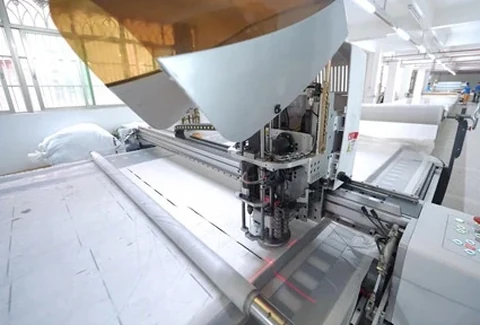
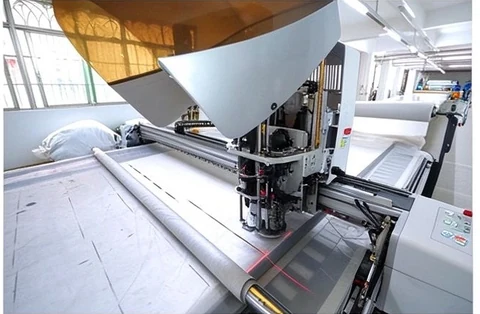
feat(images): upgrade factory photos to HD cells from the 2364px collage
Re-cropped all six factory slots from D:\\高清图.jpeg (2364x1773) instead of
the old 1600x1200 collage. Native widths went from 425-562px to 661-844px,
so the homepage strip now runs at 240px tall with a worst 2x density of 1.11
(was 1.39 at 200px) - taller AND sharper.

Also:
- tidied the building exterior crop: dropped the flat sky and the foreground
  wall so the building fills ~80% of the frame, and gave it a gentle contrast/
  colour lift so it does not read as washed out next to the interiors.
- dropped the bottom-right cell's outer white border, which carried a
  '豆包AI生成' watermark; cropping to the real photo edge (y=462) removes it
  without losing any image content. That cell is not used on the site.
- added @640/@768 variants so the ~397px about-grid tiles pick a sharper
  source on 2x screens instead of falling back to 480.
- 640 added to Picture.astro CANDIDATE_WIDTHS so those variants are emitted.
- no variant exceeds its native width, so nothing is upscaled.

diff --git a/src/styles/global.css b/src/styles/global.css
@@ -310,7 +310,7 @@
 }
 @media (min-width: 768px) {
   .factory-strip { grid-template-columns: repeat(6, 1fr); }
-  .factory-strip .strip-cell { aspect-ratio: auto; height: 200px; }
+  .factory-strip .strip-cell { aspect-ratio: auto; height: 240px; }
   .factory-strip .strip-cap { font-size: 0.6rem; }
 }
 @media (min-width: 1024px) {
